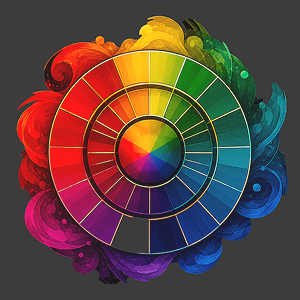
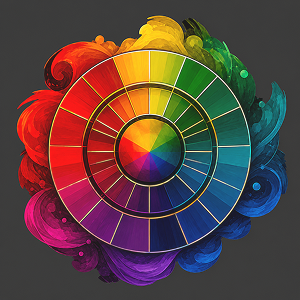
altre modifiche create

Changed region(s): [[0.06, 0.03, 0.96, 0.96]]

diff --git a/style.css b/style.css
@@ -664,30 +664,6 @@ body {
     color: #ffffff;
 }
 
-/* ========== HERO INFO SUL PROGETTO ========== */
-
-.hero-info {
-    width: 100%;
-    height: 710px;
-    background-image: url("img/hero_info_sul_progetto.png");
-    background-size: cover;
-    background-position: center;
-    background-repeat: no-repeat;
-
-    display: flex;
-    align-items: center;
-}
-
-.hero-info h1 {
-    font-family: Georgia, serif;
-    font-size: 72px;
-    font-weight: 700;
-    letter-spacing: 3px;
-    color: #ffffff;
-    margin: 0;
-    padding-left: 38px;
-}
-
 /* ========== PAGINA INFO SUL PROGETTO ========== */
 
 .hero-info-progetto {